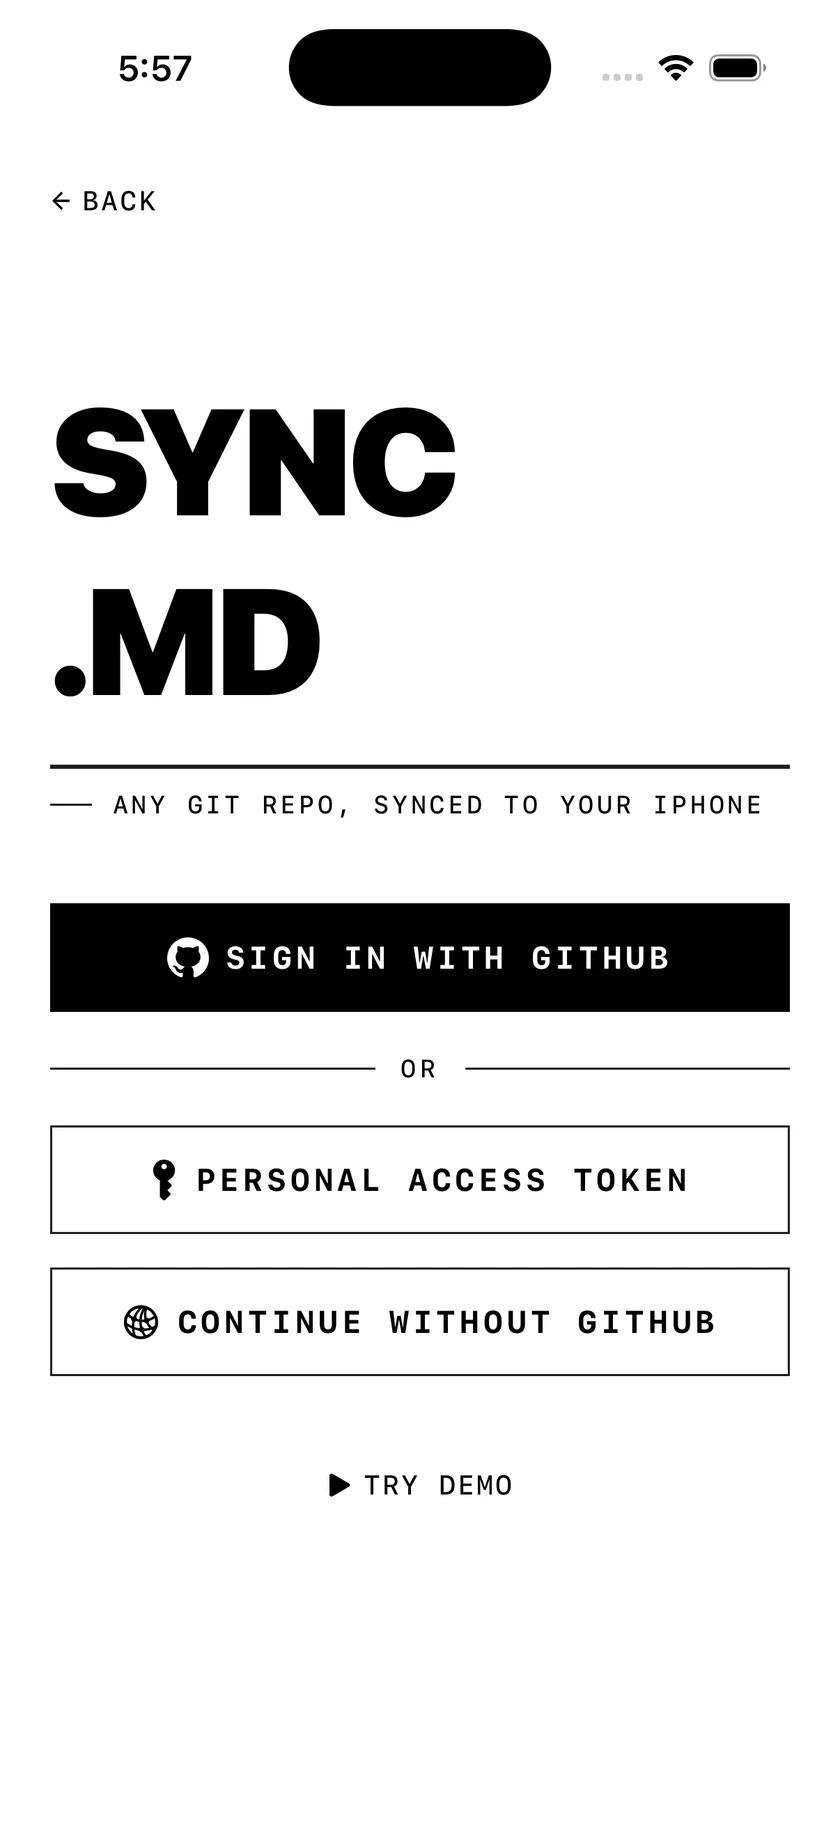
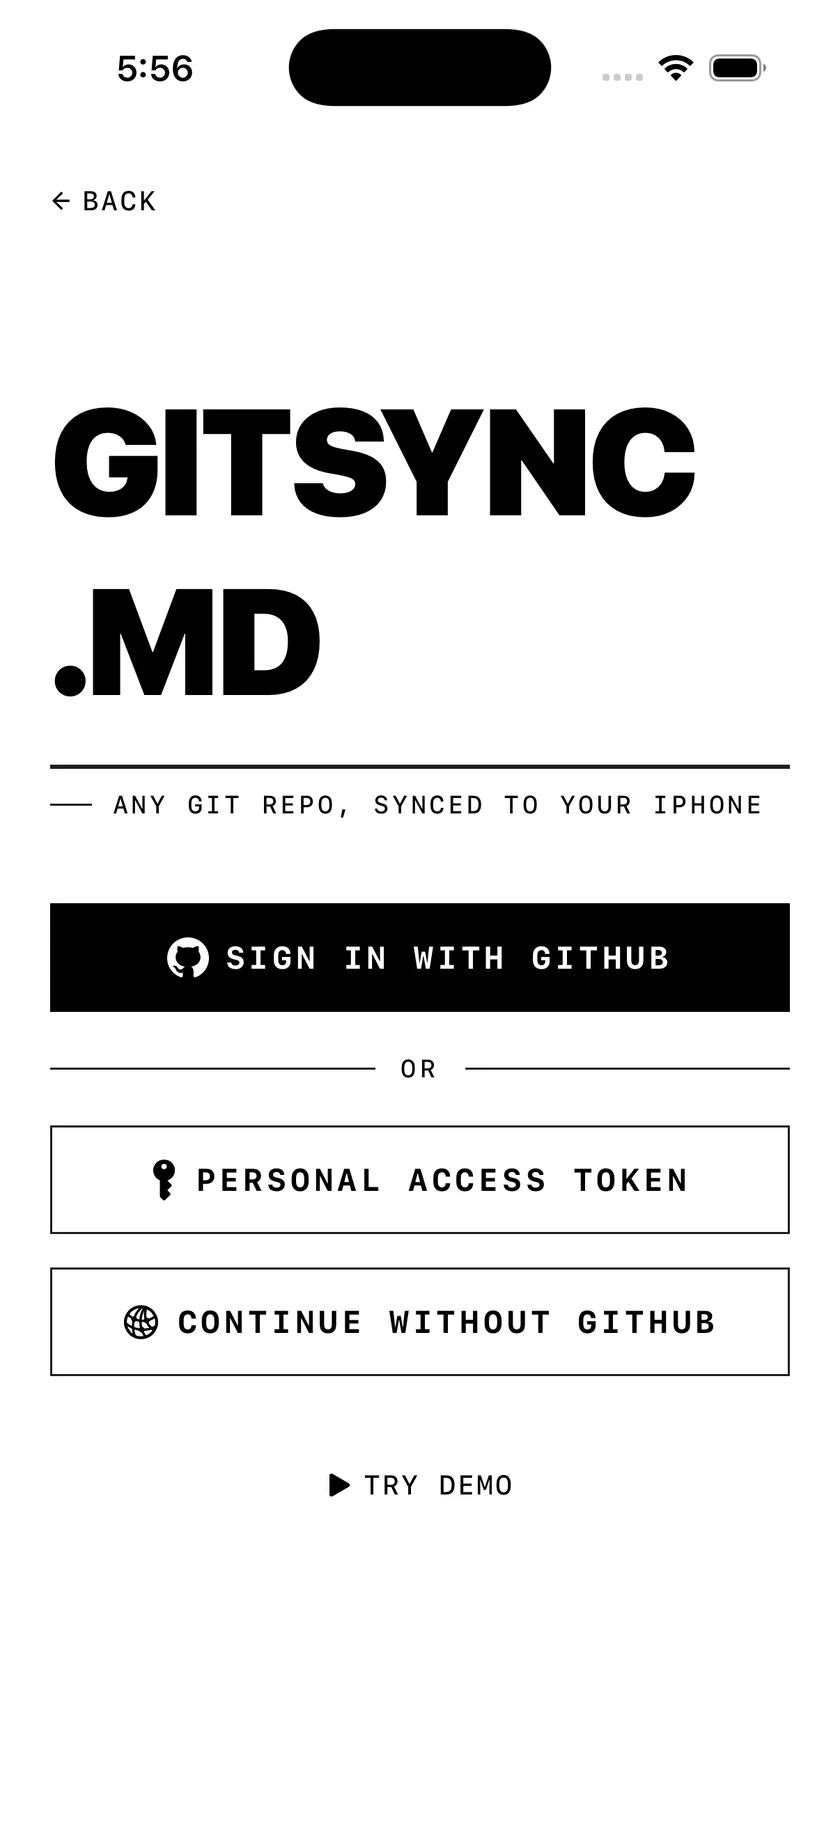
fix: use GitSync.md branding on sign-in and onboarding

Changed region(s): [[0.0619, 0.2185, 0.8357, 0.2809], [0.1548, 0.0312, 0.2476, 0.0624]]

diff --git a/Sync.md/Views/OnboardingView.swift b/Sync.md/Views/OnboardingView.swift
@@ -33,7 +33,7 @@ struct OnboardingView: View {
 
     private let slides: [OnboardingSlide] = [
         OnboardingSlide(
-            title: [String(localized: "SYNC"), ".MD"],
+            title: ["GITSYNC", ".MD"],
             accentIndex: 1,
             subtitle: String(localized: "YOUR REPOS, ON YOUR IPHONE"),
             description: String(localized: "Clone any Git repository to your device — GitHub, self-hosted, SSH, or public remotes — and keep it in sync from your pocket.")

diff --git a/Sync.md/Views/SetupView.swift b/Sync.md/Views/SetupView.swift
@@ -100,8 +100,10 @@ struct SetupView: View {
     private var hero: some View {
         VStack(alignment: .leading, spacing: 0) {
             // Big monospaced title
-            Text("SYNC")
+            Text(verbatim: "GITSYNC")
                 .bType(.hero)
+                .lineLimit(1)
+                .minimumScaleFactor(0.5)
                 .foregroundStyle(Color.brutalText)
                 .tracking(-2)
                 .padding(.bottom, 0)
